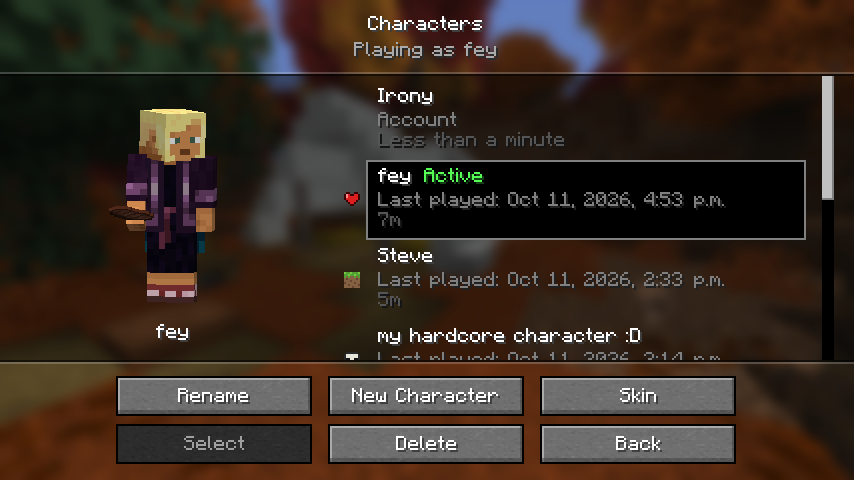
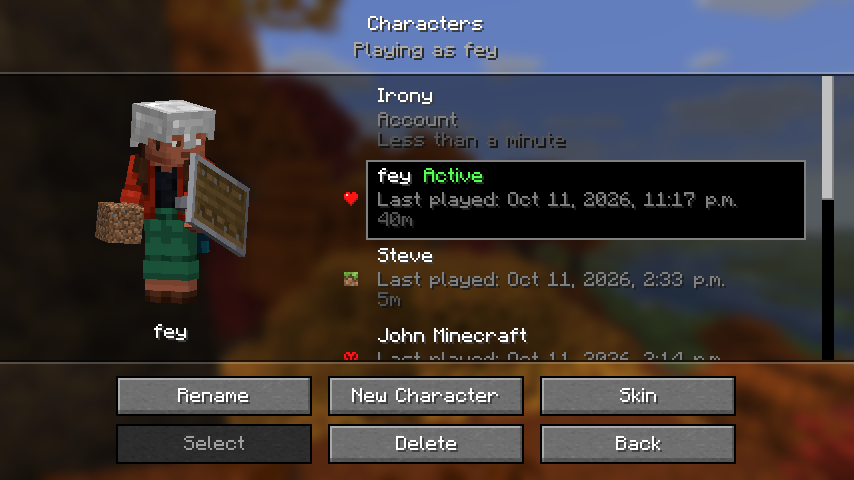
More pics

diff --git a/README.md b/README.md
@@ -26,6 +26,8 @@ singleplayer worlds and on servers that have the mod installed.
 - Your account's data in a world is set aside while a character plays there and is given back when you
   play that world as your account again.
 
+![custom_skin.png](img/custom_skin.png)
+
 ### Custom skins
 - Giving a character their own skin either your active account skin, one of the default skins, or any skin you may want to import.
 
@@ -36,6 +38,8 @@ singleplayer worlds and on servers that have the mod installed.
   - **Creative** characters join worlds that are Creative or have cheats enabled
   - **Hardcore** characters join only hardcore worlds
 - Opening a world that does not suit your selected character takes you to character selection, creating a world also offers to make a character for it.
+
+![main_menu.png](img/main_menu.png)
 
 ### In-game
 - Your character's name is used in chat, tab list, name tag, join, death and advancement messages, hovering over it
@@ -61,14 +65,14 @@ singleplayer worlds and on servers that have the mod installed.
   | `parallel.gamemodes.bypass` | nobody    | taking a character into a world of another gamemode |
   | `parallel.usernames.see`    | operators | seeing the usernames of players on characters       |
 
-## Where things are kept
+## Locations
 
-| What                                   | Where                                           |
-|----------------------------------------|-------------------------------------------------|
-| Your characters                        | `characters/` in the game folder                |
-| Which character is selected            | `characters/active_character.txt`               |
+| What                                         | Where                                     |
+|----------------------------------------------|-------------------------------------------|
+| Your characters                              | `characters/` in the game folder          |
+| Which character is selected                  | `characters/active_character.txt`         |
 | A server's copies of its players' characters | `<world>/parallel/players/` on the server |
-| Account data set aside in a world      | `<world>/parallel/accounts/`                    |
+| Account data set aside in a world            | `<world>/parallel/accounts/`              |
 
 ## Building
 
